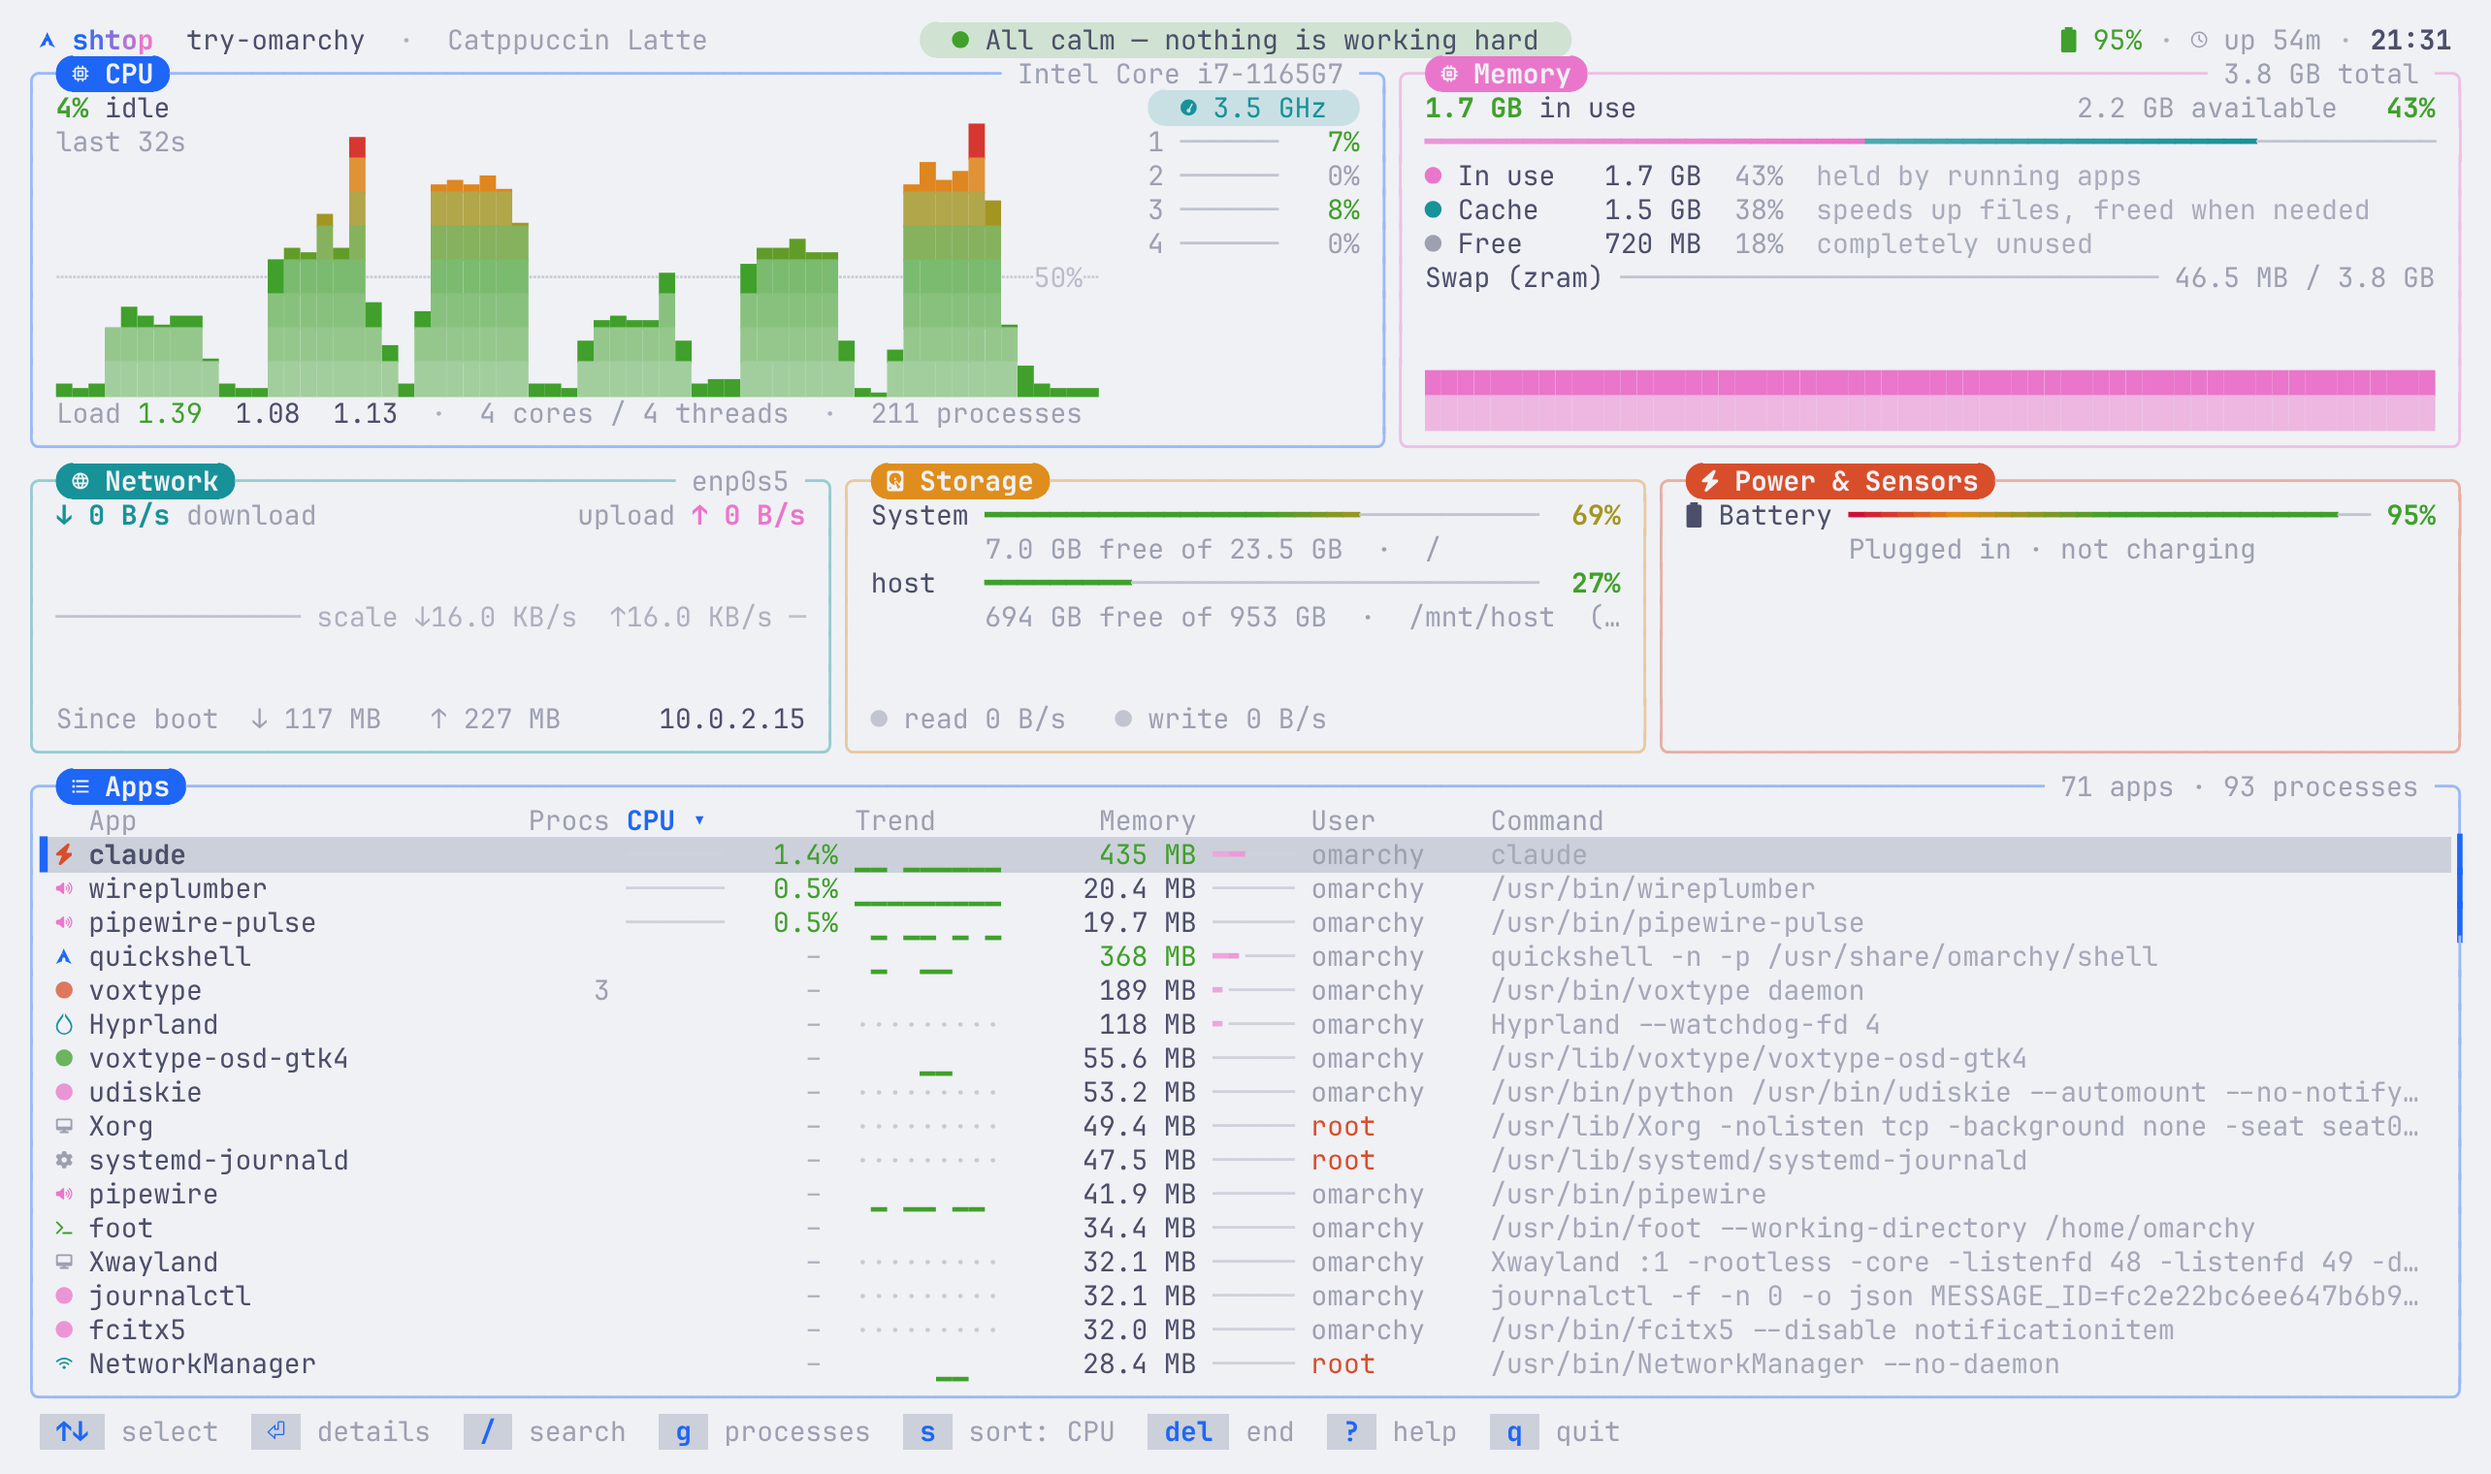
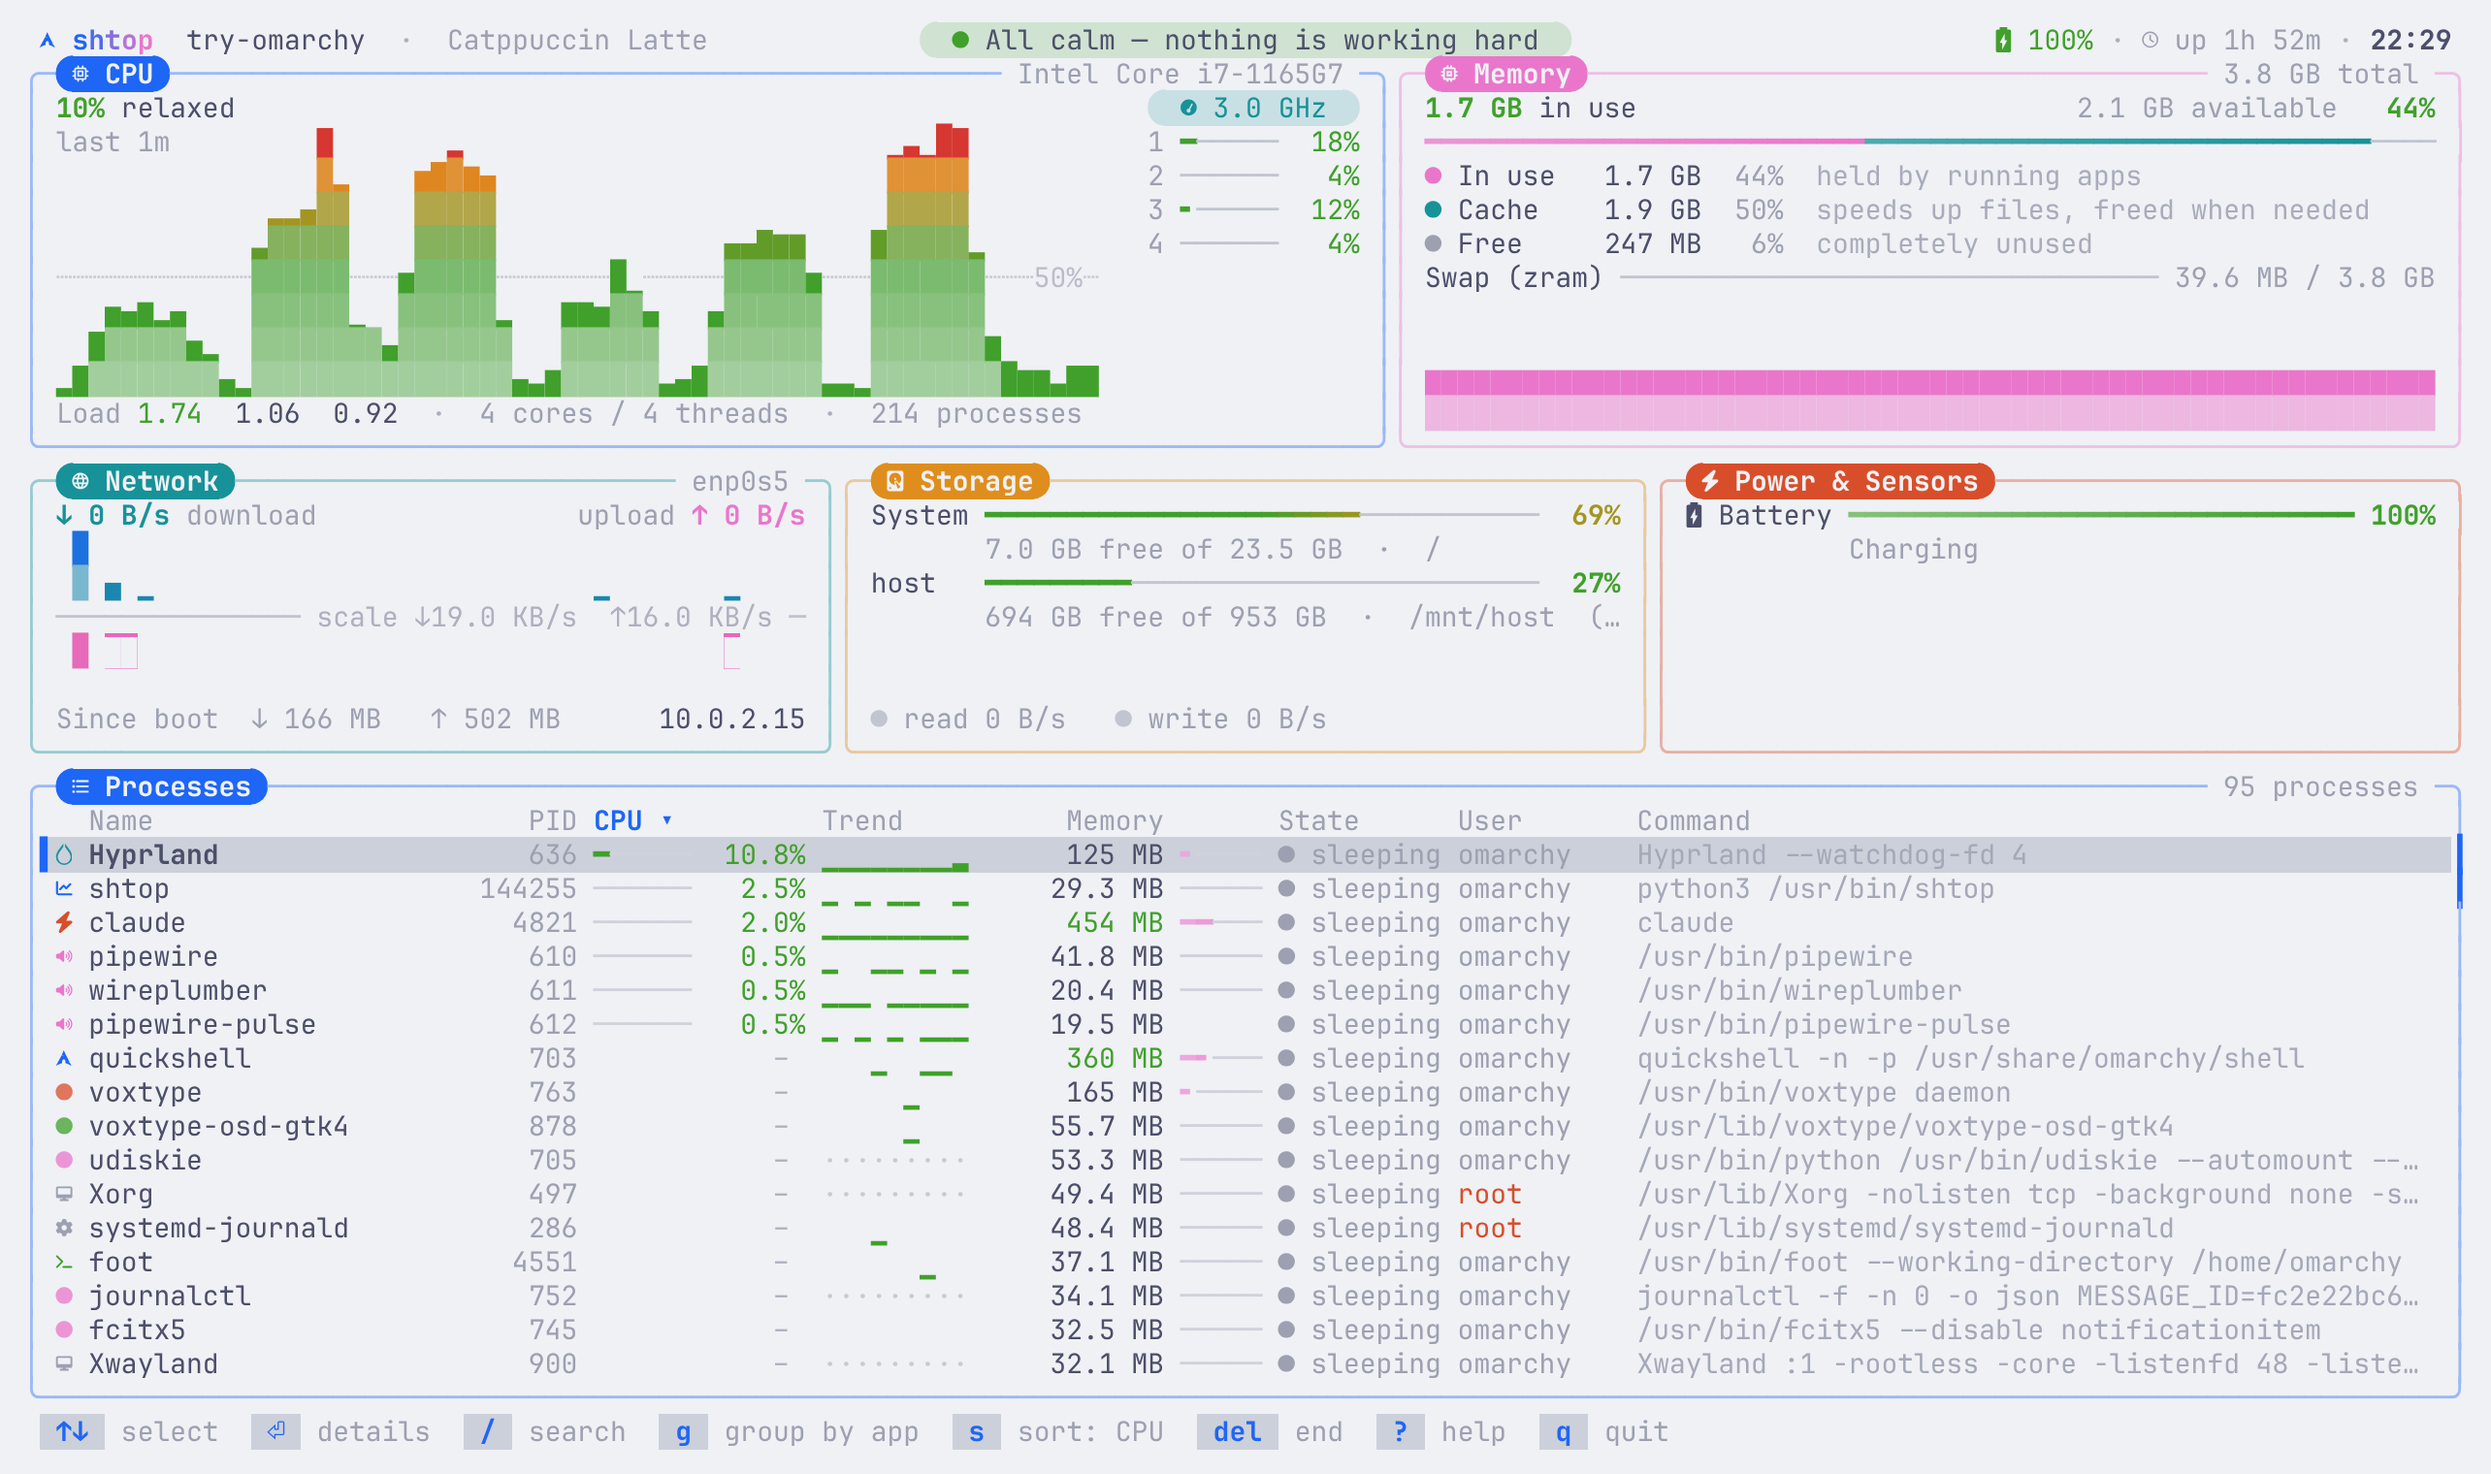
Open on the process list with PIDs; group by app with g or --apps
A process monitor should show every process and its PID up front. The
grouped view is still a key away and now shows each app's main PID too.

diff --git a/tests/test_shtop.py b/tests/test_shtop.py
@@ -306,6 +306,26 @@ class RenderTests(unittest.TestCase):
         for title in ("CPU", "Memory", "Network", "Storage", "Apps"):
             self.assertIn(title, text)
 
+    def test_processes_with_pid_by_default(self):
+        self.assertFalse(shtop.App(animate=False).grouped)
+        self.assertTrue(shtop.App(animate=False, grouped=True).grouped)
+        self.assertFalse(shtop.parse_args([]).apps)
+        self.assertTrue(shtop.parse_args(["--apps"]).apps)
+
+    def test_pid_column_in_both_views(self):
+        for grouped in (False, True):
+            for width in (60, 80, 150):
+                with self.subTest(grouped=grouped, width=width):
+                    keys = [c[0] for c in self.app.columns(width - 4)]
+                    self.assertIn("pid", keys)
+                    self.assertTrue(all(w > 0 for _, _, w in self.app.columns(width - 4)))
+        self.app.grouped = False
+        self.app.build_rows()
+        self.app.scr.resize(150, 45)
+        self.app.render()
+        top = self.app.rows[0]
+        self.assertIn(str(top.pid), self.text())
+
     def test_too_small_message(self):
         self.app.scr.resize(40, 10)
         self.app.render()

diff --git a/README.md b/README.md
@@ -29,14 +29,16 @@ single Python script with no dependencies beyond Python itself.
 - **Power & Sensors:** battery with time left ("On battery · 3h 20m left"),
   temperatures, fans and GPU usage (AMD and NVIDIA), when the hardware
   reports them.
-- **Apps:** everything running, grouped by app so a browser with twenty
-  processes is one row, with icons, a CPU trend sparkline, memory and user.
-  CPU % is a share of the whole machine: 100% means every core is busy.
+- **Processes:** everything running, with PID, icon, a CPU trend sparkline,
+  memory, state, user and command line. Press <kbd>g</kbd> to group them by
+  app, so a browser with twenty processes becomes one row. CPU % is a share of
+  the whole machine: 100% means every core is busy.
 
-Press <kbd>Enter</kbd> on an app to see its CPU over the last minute, every
-process it's made of, the program, folder, start time and command line.
+Press <kbd>Enter</kbd> on a process to see its CPU over the last minute, its
+parent, the program, folder, start time and command line. On an app, it also
+lists every process the app is made of.
 
-![Details for an app](docs/details.png)
+![Details for a process](docs/details.png)
 
 Light themes work too:
 
@@ -86,6 +88,7 @@ Or copy the `shtop` file anywhere on your `PATH`. Uninstall with
 ```
 shtop                   run it
 shtop -i 1              refresh processes every second (0.5–8, default 2)
+shtop -a                start grouped by app instead of one row per process
 shtop --no-animation    update numbers instantly (uses less CPU)
 shtop --no-icons        plain symbols, for terminals without a Nerd Font
 shtop --dump 120x40     print a single frame and exit
@@ -94,11 +97,11 @@ shtop --dump 120x40     print a single frame and exit
 | Key | Does |
 |-----|------|
 | <kbd>↑</kbd> <kbd>↓</kbd> or <kbd>j</kbd> <kbd>k</kbd> | Move the selection (<kbd>PgUp</kbd> <kbd>PgDn</kbd> <kbd>Home</kbd> <kbd>End</kbd> jump) |
-| <kbd>Enter</kbd> or click | Details for the selected app |
+| <kbd>Enter</kbd> or click | Details for the selected process or app |
 | <kbd>/</kbd> | Search by name, command line or PID (<kbd>Esc</kbd> clears) |
-| <kbd>g</kbd> | Switch between apps and individual processes |
+| <kbd>g</kbd> | Switch between individual processes and apps (grouped by name) |
 | <kbd>s</kbd> | Next sort; <kbd>c</kbd> <kbd>m</kbd> <kbd>n</kbd> <kbd>p</kbd> sort by CPU, memory, name, PID; <kbd>r</kbd> reverses. Clicking a column header sorts too |
-| <kbd>Del</kbd> or <kbd>x</kbd> | End the app nicely (SIGTERM), after confirming |
+| <kbd>Del</kbd> or <kbd>x</kbd> | End the process (or every process of the app) nicely (SIGTERM), after confirming |
 | <kbd>Shift</kbd>+<kbd>Del</kbd> or <kbd>X</kbd> | Force-end it (SIGKILL), after confirming |
 | <kbd>t</kbd> | Show or hide kernel tasks |
 | <kbd>a</kbd> | Animations on or off |

diff --git a/CHANGELOG.md b/CHANGELOG.md
@@ -1,5 +1,11 @@
 # Changelog
 
+## 1.2.0 — 2026-10-04
+
+- Opens on the list of individual processes, each with its PID. Press `g`
+  (or start with `-a` / `--apps`) for the grouped-by-app view, which now shows
+  the PID of each app's main process too.
+
 ## 1.1.0 — 2026-10-04
 
 - Refresh every 2 seconds by default instead of every second: calmer to
